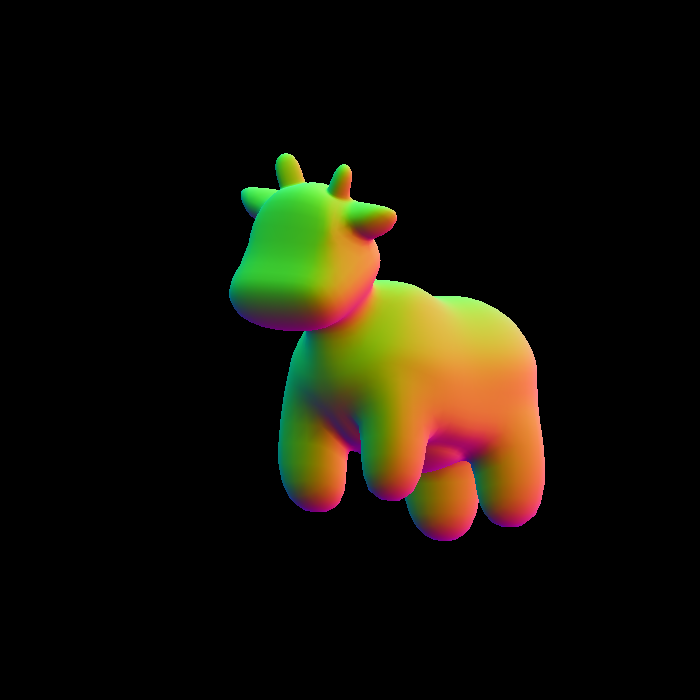
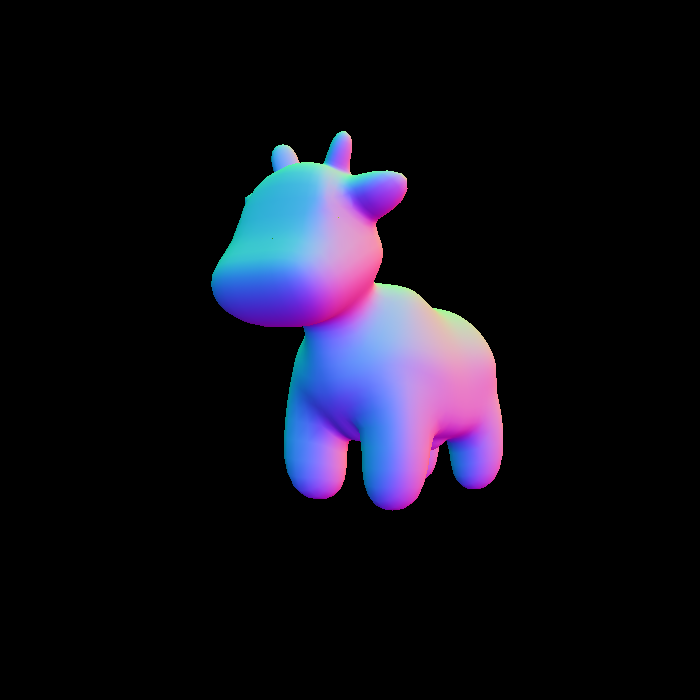
finsh hw3

Changed region(s): [[0.3, 0.18, 0.78, 0.78]]

diff --git a/graphics_homework/Assignment3/Code/main.cpp b/graphics_homework/Assignment3/Code/main.cpp
@@ -50,16 +50,17 @@ Eigen::Matrix4f get_model_matrix(float angle)
 Eigen::Matrix4f get_projection_matrix(float eye_fov, float aspect_ratio, float zNear, float zFar)
 {
     // TODO: Use the same projection matrix from the previous assignments
-    float n = -zNear;
-    float f = -zFar;
+    // http://games-cn.org/forums/topic/作业三的牛倒过来了/
+    float n = zNear;
+    float f = zFar;
     float t = std::abs(n) * std::tan(0.5f * (eye_fov * MY_PI / 180.f));
     float b = -t;
     float r = aspect_ratio * t;
     float l = -r;
 
     Eigen::Matrix4f perspective;
-    perspective << n, 0, 0, 0,
-        0, n, 0, 0,
+    perspective << -n, 0, 0, 0,
+        0, -n, 0, 0,
         0, 0, n + f, -n * f,
         0, 0, 1, 0;
 
@@ -186,10 +187,10 @@ Eigen::Vector3f phong_fragment_shader(const fragment_shader_payload &payload)
 
         Eigen::Vector3f ambient = ka.cwiseProduct(amb_light_intensity);
         Eigen::Vector3f diffuse = kd.cwiseProduct(I_r2) * std::max(0.f, n.dot(l));
-        float r_square = pow(light.position.x() - point.x(), 2) +
-                         pow(light.position.y() - point.y(), 2) +
-                         pow(light.position.z() - point.z(), 2);
-        Eigen::Vector3f specular = ks.cwiseProduct(light.intensity / r_square) * pow(std::max(0.f, n.dot(h)), p);
+        // float r_square = pow(light.position.x() - point.x(), 2) +
+        //                  pow(light.position.y() - point.y(), 2) +
+        //                  pow(light.position.z() - point.z(), 2);
+        Eigen::Vector3f specular = ks.cwiseProduct(I_r2) * pow(std::max(0.f, n.dot(h)), p);
 
         result_color += ambient + specular + diffuse;
     }
@@ -295,7 +296,7 @@ int main(int argc, const char **argv)
 {
     std::vector<Triangle *> TriangleList;
 
-    float angle = 40.0;
+    float angle = 140.0;
     bool command_line = false;
 
     std::string filename = "output.png";
